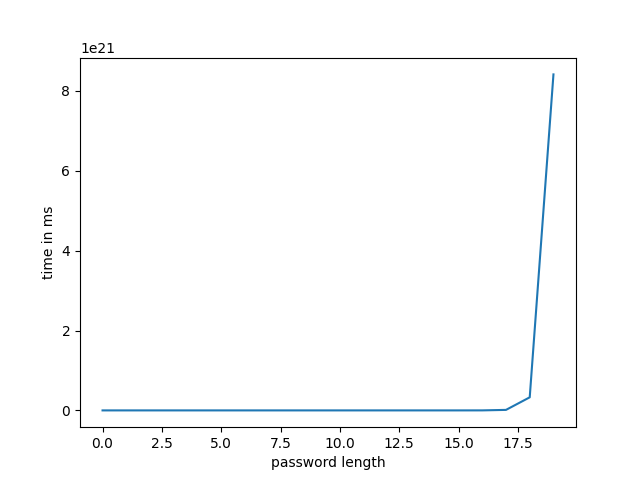
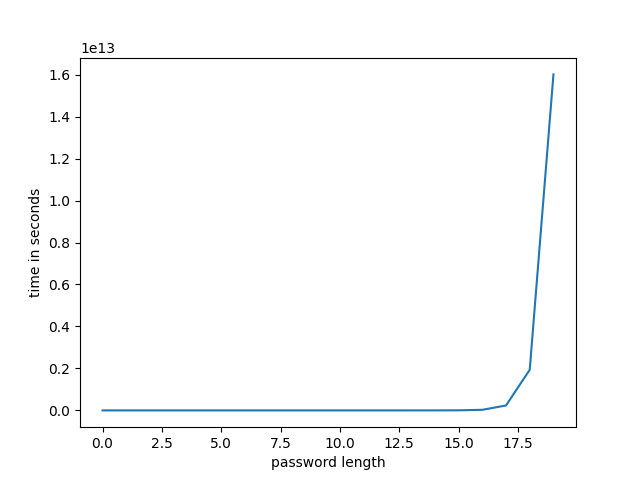
Altered time prediction to be in seconds

diff --git a/time_predictor.py b/time_predictor.py
@@ -6,9 +6,10 @@ import numpy as np
 import matplotlib.pyplot as plt
 
 device = torch.device("cuda" if torch.cuda.is_available() else "cpu")
+torch.manual_seed(42)
 
 x = torch.tensor([[1], [2], [3], [4], [5], [6], [7], [8]], dtype=torch.float32, device=device)
-y = torch.tensor([[3.77], [3.86], [3.73], [4.05], [20.89], [882.68], [98973.05], [2423392.75]], dtype=torch.float32, device=device)
+y = torch.tensor([[0.0036], [0.0041], [0.0038], [0.0043], [0.0059], [0.1164], [8.9226], [637.8328]], dtype=torch.float32, device=device)
 y_log = torch.log(y)
 
 dataset = TensorDataset(x, y_log)
@@ -57,11 +58,11 @@ with torch.no_grad():
     test_val = torch.tensor([[10.0]], device=device)
     log_pred = model(test_val)
     pred = torch.exp(log_pred)
-    print(f"Prediction for x=10: {pred.item()} ms")
+    print(f"Prediction for x=10: {pred.item()} seconds")
     test_val = torch.tensor([[8.0]], device=device)
     log_pred = model(test_val)
     pred = torch.exp(log_pred)
-    print(f"Prediction for x=8: {pred.item()} ms")
+    print(f"Prediction for x=8: {pred.item()} seconds")
 
 
 x1, x2 = torch.tensor([[1.0]], device=device), torch.tensor([[8.0]], device=device)
@@ -71,7 +72,7 @@ y2 = torch.exp(model(x2)).item()
 B = np.log(y2 / y1) / (8.0 - 1.0)
 A = y1 / np.exp(B * 1.0)
 
-print(f"The model's behavior approximates: y = {A:.2f} * e^({B:.4f} * x)")
+print(f"The model's behavior approximates: y = {A:.4f} * e^({B:.4f} * x)")
 
 x_axis = []
 y_axis = []
@@ -86,6 +87,6 @@ with torch.no_grad():
 
 plt.plot(x_axis, y_axis)
 plt.xlabel("password length")
-plt.ylabel("time in ms")
+plt.ylabel("time in seconds")
 plt.savefig("lvtrelation.png")
 plt.show()
